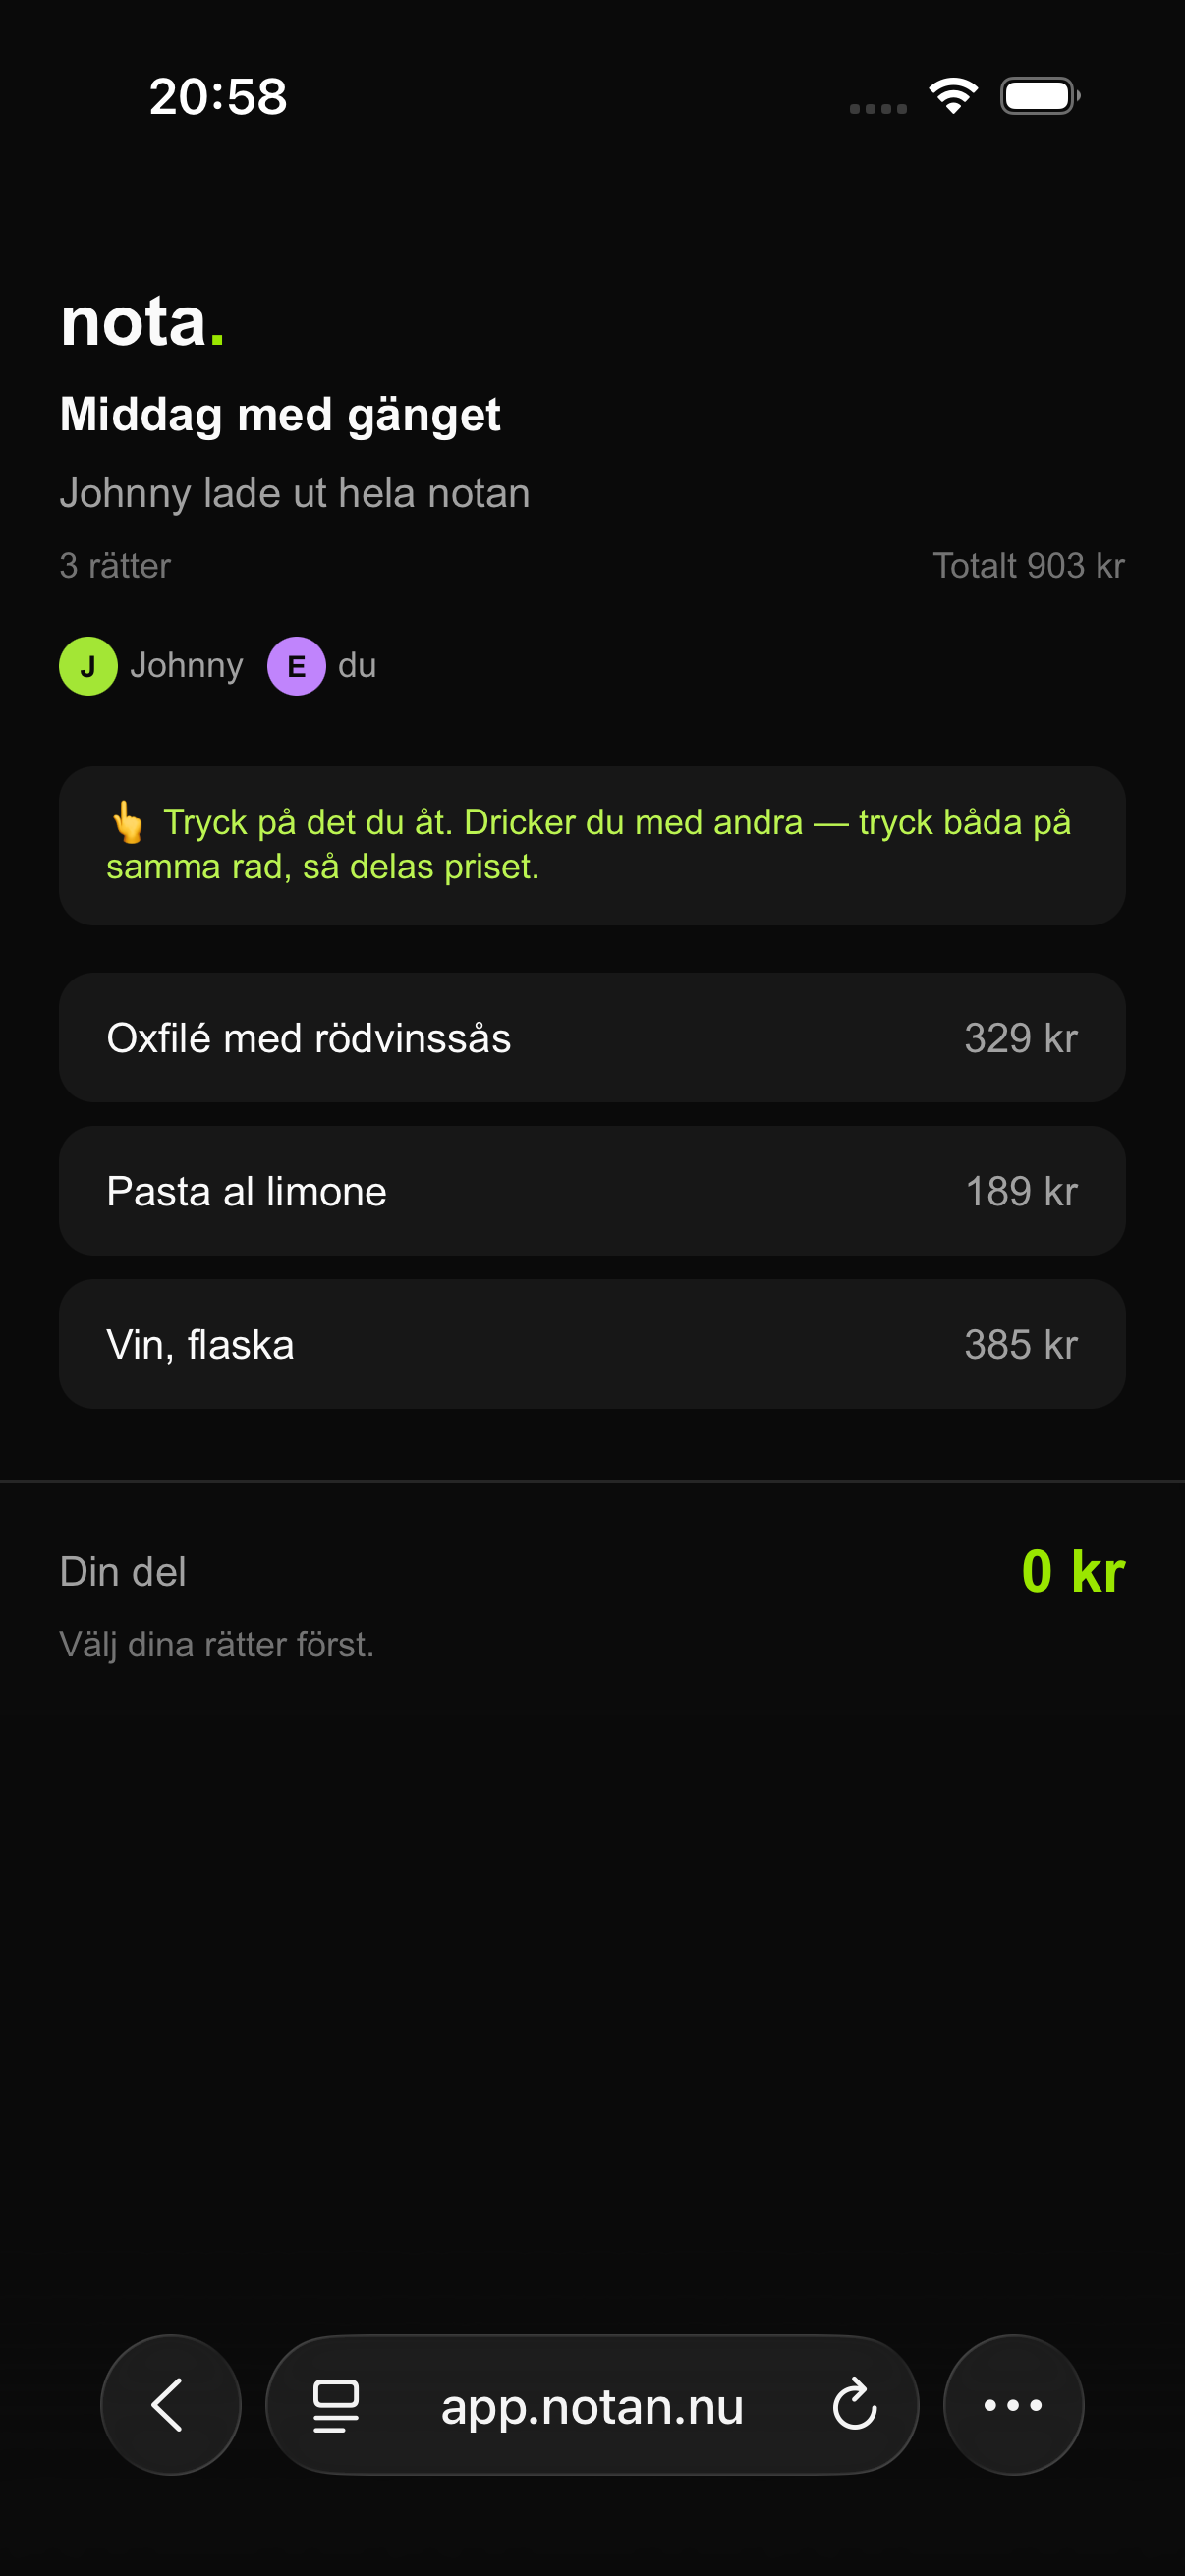
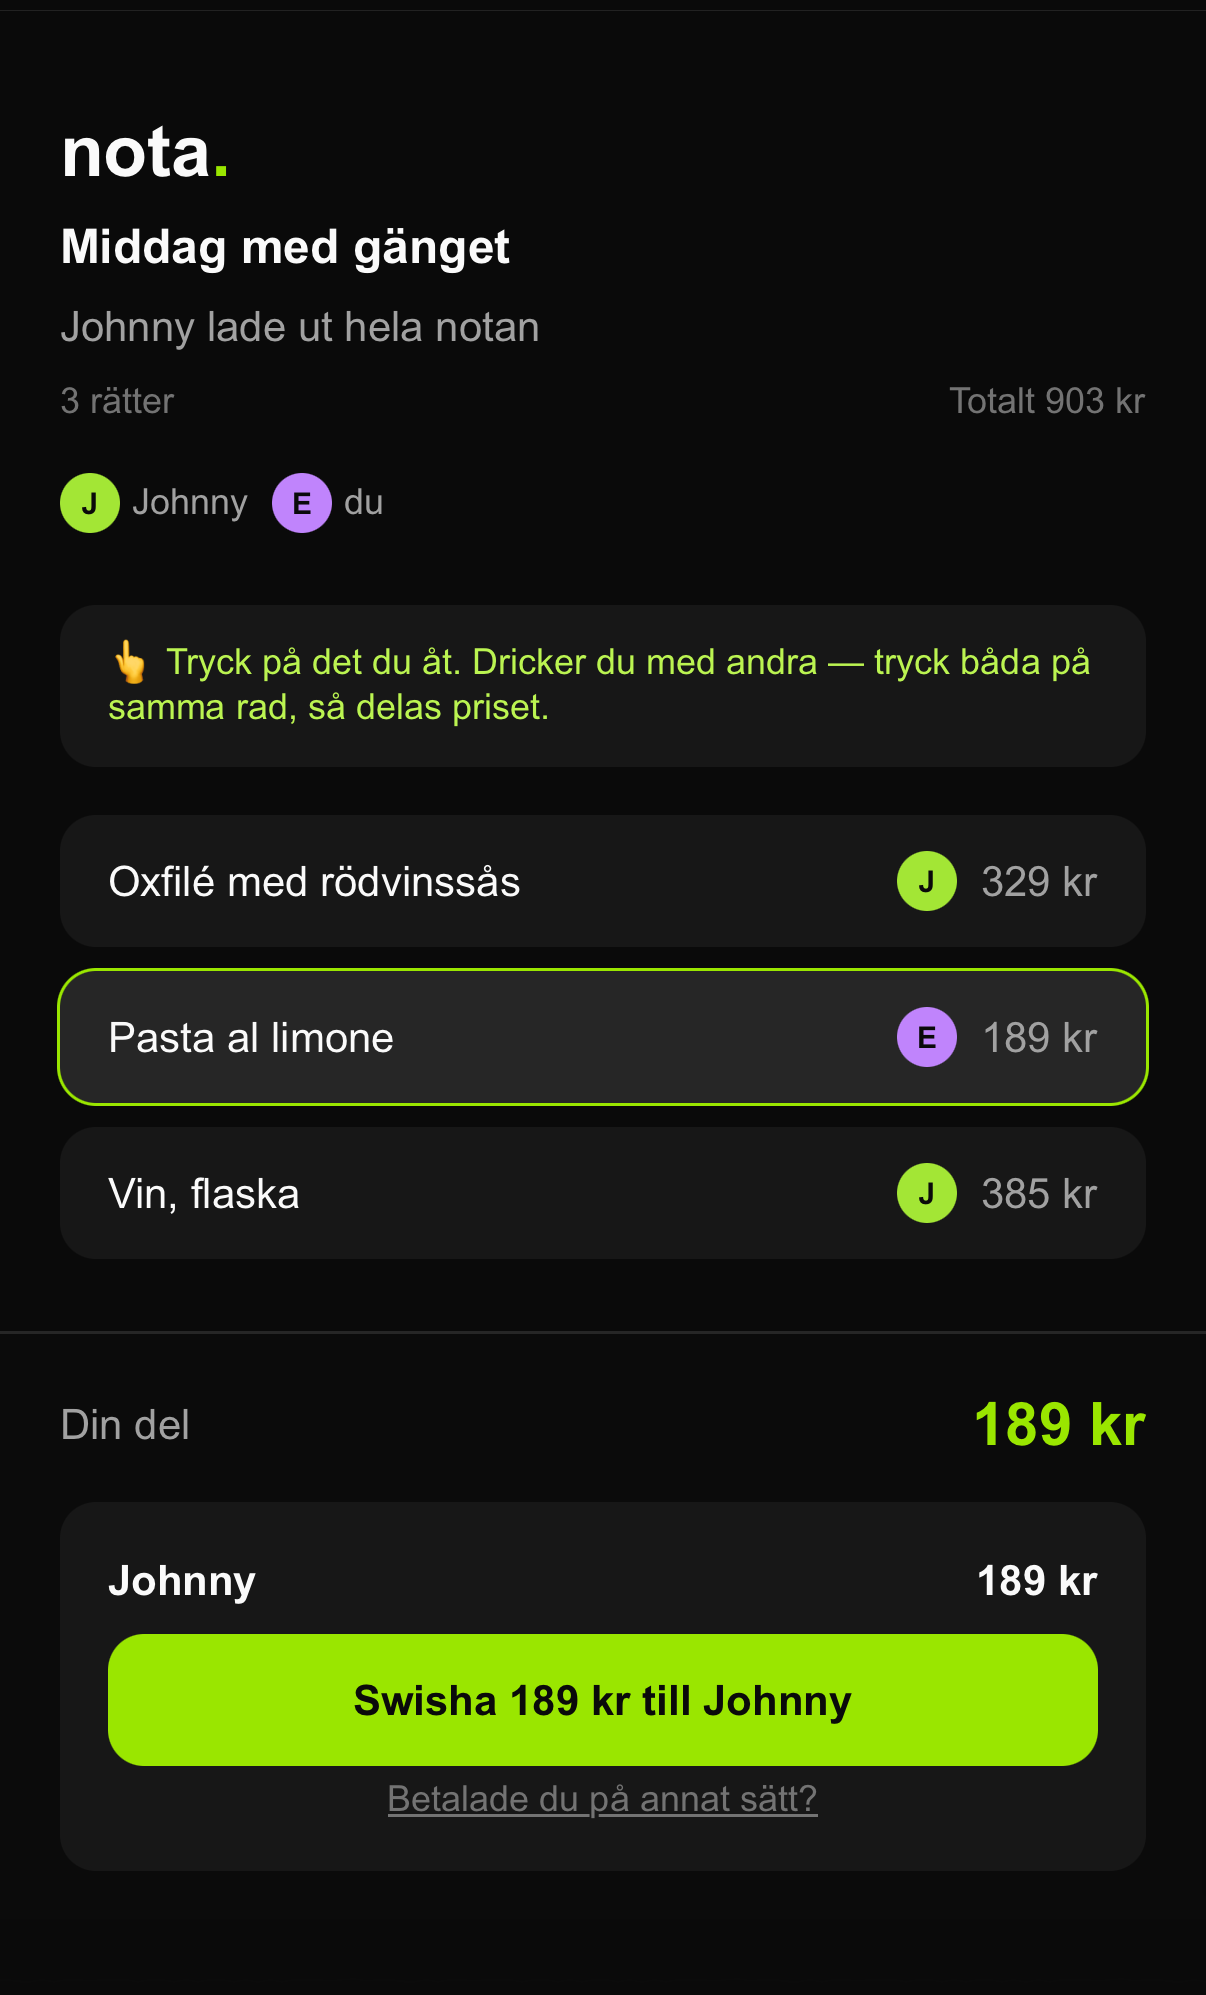
Uppdaterade skärmbilder: gästens Swish-belopp + medvärd i live-status
- Gästbilden visar nu 'Din del 189 kr' + 'Swisha 189 kr till Johnny'
  (beskuren till sidinnehåll, ramen ritar egen webbläsar-chrome)
- 'The host'-sektionen visar live-status med medvärd (Johnny + Emma)
  och betalningsprogress i stället för onboarding

diff --git a/index.html b/index.html
@@ -324,7 +324,7 @@
           </div>
         </div>
         <div class="stage">
-          <div class="phone reveal"><img src="assets/screens/onboarding.png" alt="nota onboarding — who's paying the whole bill" width="1179" height="2556" /></div>
+          <div class="phone reveal"><img src="assets/screens/live-status.png" alt="nota live status — who has paid, tracked in real time with co-hosts" width="1206" height="2622" /></div>
         </div>
       </div>
     </div>
@@ -358,7 +358,7 @@
                 app.notan.nu/j/7H2M4X
               </div>
             </div>
-            <div class="pageimg"><img src="assets/screens/guest.png" alt="nota guest view in the browser — tapping items and paying" width="1170" height="1875" /></div>
+            <div class="pageimg"><img src="assets/screens/guest.png" alt="nota guest view in the browser — your share and a one-tap Swish button" width="1206" height="1995" /></div>
           </div>
           <div class="cap">
             <span class="k" data-i18n="share.k2">The guest</span>